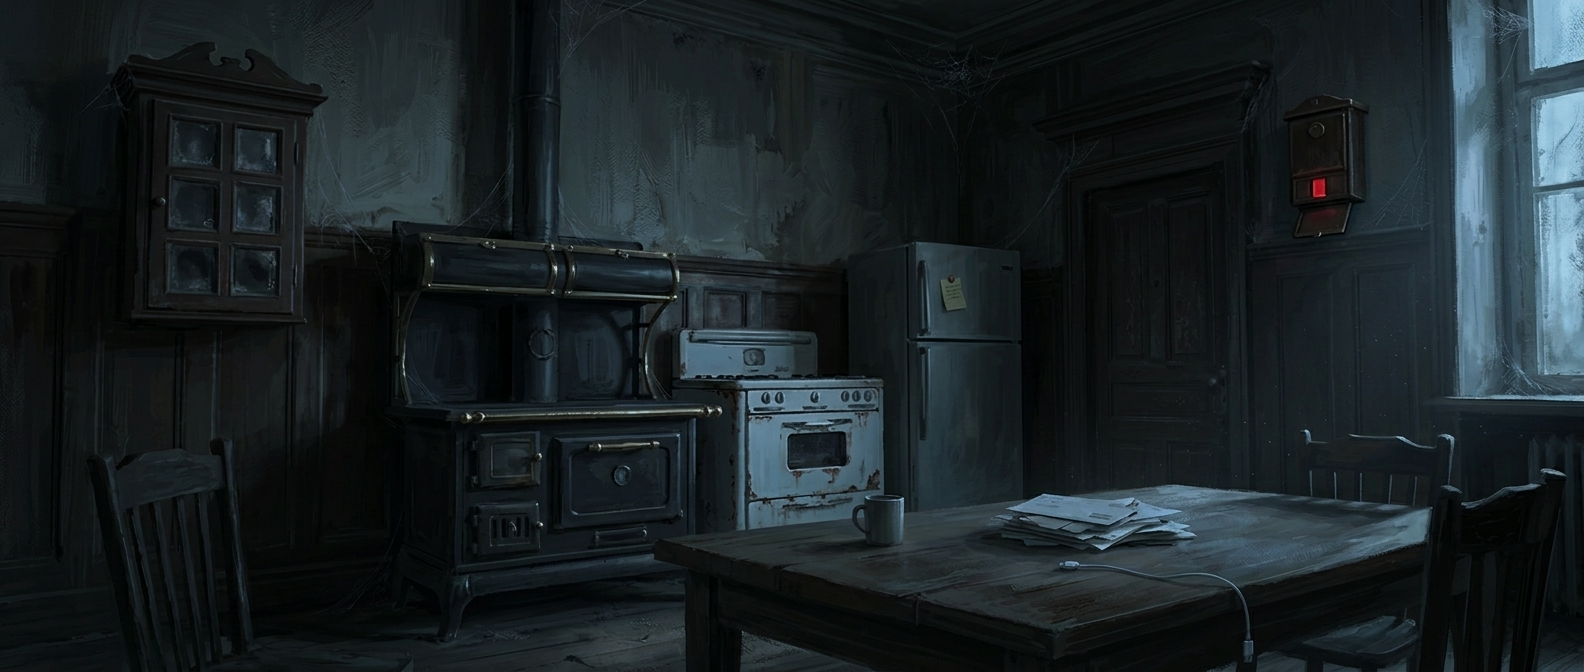
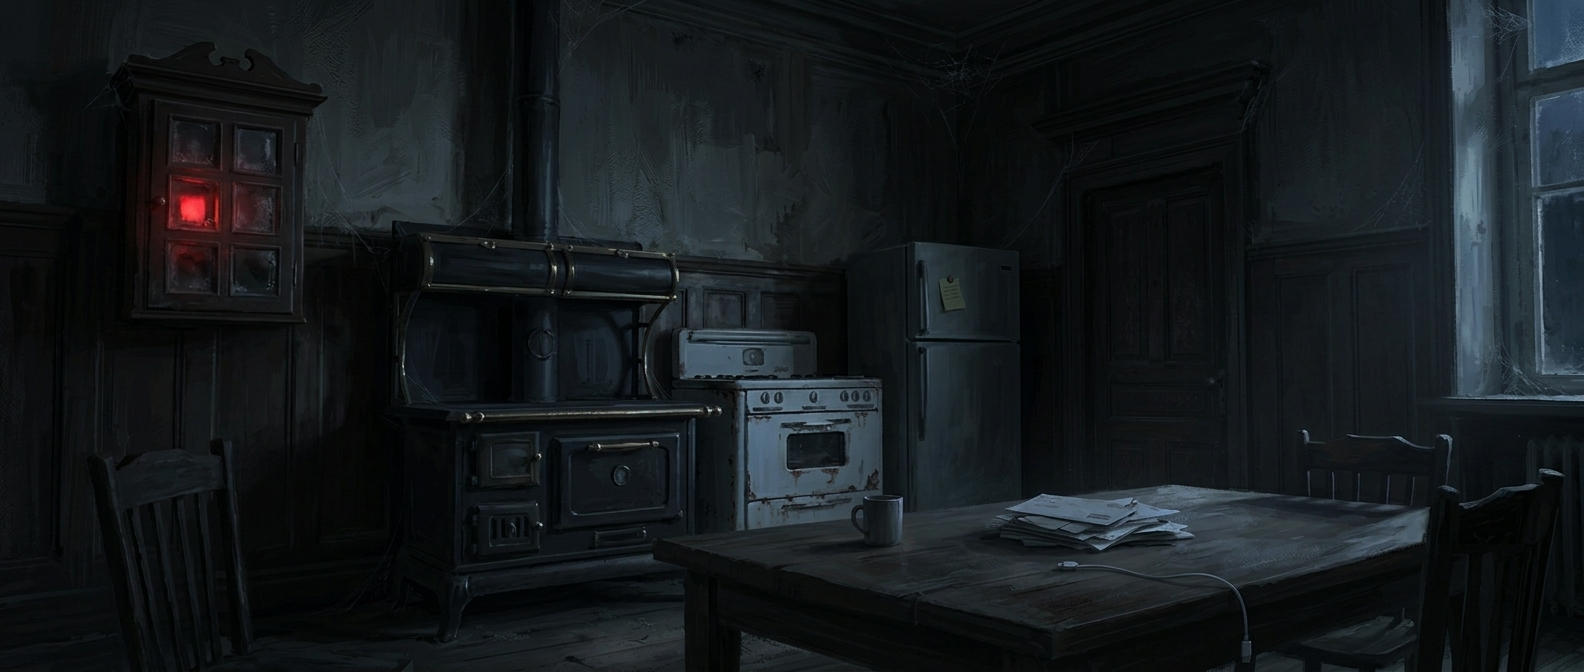
Bilder: Spuk-Varianten von Küche und Salon nachgebessert

diff --git a/tools/kandidaten.js b/tools/kandidaten.js
@@ -339,7 +339,7 @@ window.KANDIDATEN = [
   {
     "name": "raum-kueche-spuk",
     "titel": "Küche – spuk",
-    "prompt": "Bearbeite das beigefügte Bild: Gleiche Szene, gleicher Bildausschnitt, nachts, im Klingelkasten über der Tür ist eine Klappe gefallen und zeigt ein rotes Fensterchen. Perspektive, Bildaufbau und Malstil exakt beibehalten, sonst nichts verändern. Stil: halbrealistische digitale Ölmalerei, dunkle Gothic-Horror-Atmosphäre, sichtbare Pinselstriche, gedämpfte Farben, starke Licht-Schatten-Kontraste, kein Text",
+    "prompt": "Bearbeite das beigefügte Bild: Gleiche Szene, gleicher Bildausschnitt, nachts; im vorhandenen dunklen Holzkasten mit den kleinen Fensterchen oben links an der Wand ist hinter genau einem Fensterchen ein leuchtend rotes Täfelchen gefallen, alle anderen Fensterchen bleiben dunkel; keine neuen Gegenstände hinzufügen. Perspektive, Bildaufbau und Malstil exakt beibehalten, sonst nichts verändern. Stil: halbrealistische digitale Ölmalerei, dunkle Gothic-Horror-Atmosphäre, sichtbare Pinselstriche, gedämpfte Farben, starke Licht-Schatten-Kontraste, kein Text",
     "kandidaten": [
       "raum-kueche-spuk-1.jpg"
     ],
@@ -415,7 +415,7 @@ window.KANDIDATEN = [
   {
     "name": "raum-salon-spuk",
     "titel": "Salon – spuk",
-    "prompt": "Bearbeite das beigefügte Bild: Gleiche Szene, gleicher Bildausschnitt, nachts, die Tasten des Flügels sind eingedrückt, als spielte eine unsichtbare Hand. Perspektive, Bildaufbau und Malstil exakt beibehalten, sonst nichts verändern. Stil: halbrealistische digitale Ölmalerei, dunkle Gothic-Horror-Atmosphäre, sichtbare Pinselstriche, gedämpfte Farben, starke Licht-Schatten-Kontraste, kein Text",
+    "prompt": "Bearbeite das beigefügte Bild: Gleiche Szene, gleicher Bildausschnitt, nachts; an der Tastatur des Flügels sind mehrere weiße und schwarze Tasten deutlich sichtbar tief eingedrückt, wie von einer unsichtbaren Hand angeschlagen, das Notenheft ist umgeblättert, ein feiner Staubschleier steigt von den Tasten auf, das Tuch über dem Flügel ist leicht verrutscht. Perspektive, Bildaufbau und Malstil exakt beibehalten, sonst nichts verändern. Stil: halbrealistische digitale Ölmalerei, dunkle Gothic-Horror-Atmosphäre, sichtbare Pinselstriche, gedämpfte Farben, starke Licht-Schatten-Kontraste, kein Text",
     "kandidaten": [
       "raum-salon-spuk-1.jpg"
     ],
